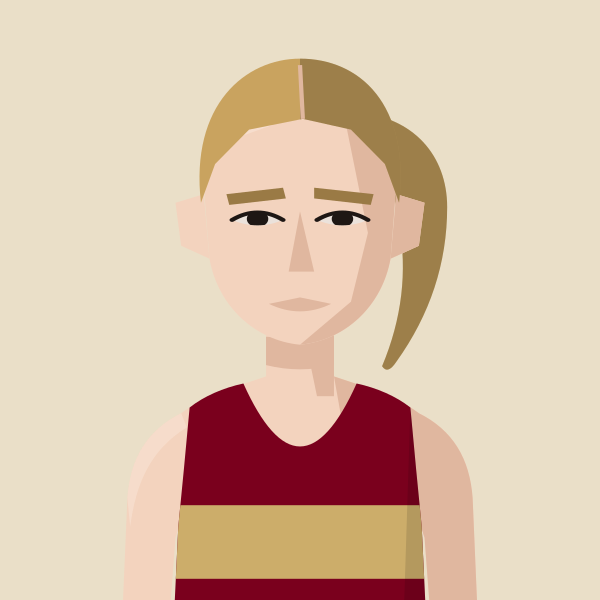
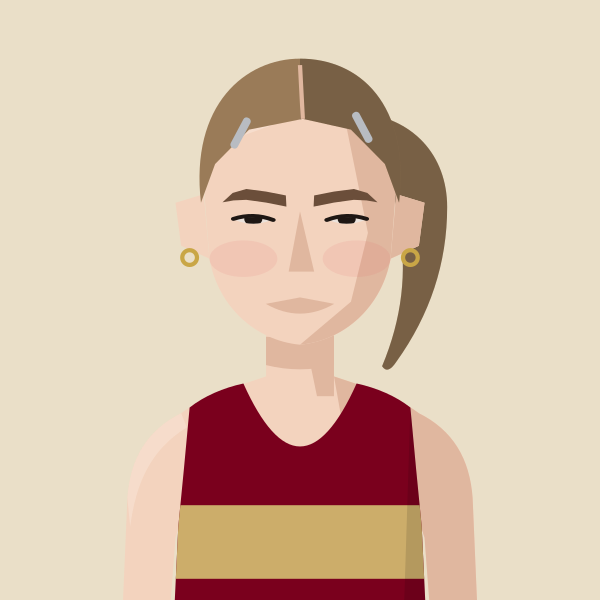
Portrait: Emma Gordon redrawn (tapering brows, hair slides, gold hoops, fuller mouth)
Claude-Session: https://claude.ai/code/session_01MgmDWhFqnSSnP4iBLKXUZC

Changed region(s): [[0.33, 0.09, 0.75, 0.63], [0.3, 0.39, 0.33, 0.45]]

diff --git a/files/index.html b/files/index.html
@@ -783,7 +783,7 @@ const portraitFile=(name,club)=>{const k=normalizeNameForCompare(name||'').repla
 const portraitClubOf=(name,clubs)=>{for(const c of clubs||[]){if(c&&portraitFile(name,c))return c;}return null;}; /* first of these clubs we have a portrait for */
 // Athlete header figure: superstar portrait if we have one, else a grey runner in the club vest, else the plain vest icon
 // Changes whenever any portrait changes (set by tools/build_og.py), so browsers fetch fresh images instead of old cached ones
-const PORTRAIT_V='83af6c35';const PORTRAIT_WOMEN='abbey-brooke,abbie-bulbulian,adele-prince,aimee-hargreaves,aisling-ahern,alex-brown,alex-gandee,alex-marginean,alex-miller,alexa-parker,alexandra-barbour,alice-braham,alice-bridger-morales,alice-crane,alice-martin,alice-reed,alice-smith,alison-purnell,alison-thomson,amelia-pettitt,amy-clements,andrea-barber,anika-schwarze-chintapatla,anna-garnier,anna-garnier-hw,anna-sharp,annabel-hobday,annabelle-hadlow,anne-hegvold,annmarie-seymour,ava-mcandie,becky-briggs,bethan-goddard,bethanie-murray,bethany-brown,betsy-griffiths,billie-mcclosky,camilla-barden,caoimhe-nic-fhogartaigh,carolyne-baxter,catherine-bryson,catherine-eastham,catherine-kandie,cathy-ansell,charlotte-griffiths,chloe-beckett,chloe-tighe,chrissie-wellington,claire-grima,clara-pettit,clare-elms,clare-pauzers,dillan-quinn,dorchie-cockerell,eilidh-hide,elinor-skinner,eliza-grant,elizabeth-apsley,elizabeth-stavreski,ella-fennelly,ella-king-powrie,ella-may-hards,ella-newton,ellen-weir,ellie-brown,ellie-freeden,eloise-bull,emilie-arnoux,emily-barrett,emily-bradley,emily-lowery,emily-robbins,emma-gordon,emma-howsham,emma-lord,emma-rowland,estle-viljoen,evie-warren,felicity-cole,felicity-harrison,felicity-hayward,fi-maddocks,fiona-de-mauny,florence-wiggins,gabby-collison,gabriel-reynolds,gemma-newport,genevieve-blanch,georgia-curry,georgie-bruinvels,georgie-fenn,georgie-furze,georgie-grgec,gina-galbraith,grace-leyland,grace-richardson,hannah-edwards,hannah-english,heather-statham,heather-statham-cc,helena-corbin,helena-keenan,holly-nixon,holly-pan,imogen-mackie,imogen-wolsey,iona-cousland,isabel-bradley,isabel-brinsden,isabelle-pickett,isobel-hodder,jennifer-nandi,jennifer-smith,jess-reed,jess-saunders,jess-winfield,jessica-davies,jessica-lowe,jodie-favell,josephine-rhodes,julia-bleasdale,julia-wedmore,juliet-hodder,jurgita-levertaviciute,justine-lynch,karen-fenner,karen-xiang,karina-box,kate-axford,kate-williams,kathy-sharpe,katie-ellen-french,katie-good,katie-snowden,katy-hedgethorne,kitty-shepherd-cross,kristina-popadich,lara-bromilow,lara-mangan,laura-goodson,laura-miles,lauren-major,lea-adamson,lily-newton,lisa-bailey,lisa-thomas,lisa-thomas-hw,lizzie-goldie-scot,louise-cooper,lucy-jones,lucy-macalister,lucy-peters,lydia-blackmore,lydia-gallyer-barnett,maddie-mastrolonardo,maddy-whitman,maeve-kenny,margaret-coogan,martina-conner,mary-james,mary-setyabule,matilde-lomba,megan-gildea,mel-wilkins,mhairi-hall,mimi-corden-lloyd,molly-oconnor,molly-smith,monika-gajek,naomi-lenane,natalie-beadle,natalie-seymour,natasha-lodge,niamh-thompson,nicky-hayes,nicola-cartlidge,nicola-douglas,nikki-sturzaker,olivia-papaioannou,olivia-stillman,orna-mcginley,pamela-mchutchon,patricia-walker,patrizia-gnoato,penny-oliver,rachel-brown,rebecca-barrow,rebekah-edgar,ruby-carter,ruby-whyte-wilding,ruby-woolfe,sally-urquhart,sam-whiting,samantha-munday,sarah-astin,sarah-dewhirst,sarah-grover,sarah-hanley,sarah-holt,sarah-murphy,sarah-palmer,sarah-palmer-ran,sarah-riceman,sarah-young,saron-haileselase,serena-carter,sophie-cowper,sophie-harris,sophie-hicks,sophie-tooley,stacey-ward,steph-hewitt,steph-mccall,steph-mccall-cc,steph-mccall-slh,steph-mitchell,suzanne-swaine,suze-spalding,suzie-harvey,suzy-whatmough,teresa-murphy,tilly-heaton,tilly-heaton-bel,tish-jones,vic-cartwright,vicky-clarke,victoria-barthelmess,victoria-buck,vikki-filsell,zoe-doyle,zoe-macdonald,zuzana-nemeckova';const PORTRAIT_MEN='aaron-wilson,abdulla-elsadig,adam-leane,adrian-major,adrien-royer,alan-black,alan-mead,alex-brecker,alex-bruce-littlewood,alex-gutteridge,alex-harris,alex-howard,alex-janiaud,alex-lee,alex-lennon,alex-mills,alex-milne,alex-morales,alex-robinson,alex-yee,alexander-marks,amittai-ben-israel,andrew-cumine,andrew-green,andrew-penney,andrew-perfect,andrew-simms,andrew-warburton,andrius-jaksevicius,andy-coley-maud,andy-coley-maud-cc,andy-fyfe,andy-north,andy-paton,andy-weir,angus-butler,angus-lamb,anisse-ismaili,arlo-ludewick,arne-dumez,arthur-peel,ashley-goncalves,barnaby-day,barry-collins,barry-sawyer,ben-clarke,ben-coughlan,ben-harding,ben-hurley,ben-ireland,ben-millar,ben-paviour,ben-pearce,ben-racle,ben-revill,ben-reynolds,ben-scott,ben-toomer,benedict-whitby,benjamin-hilson,bernie-ford,bill-kerr,bill-weller,bill-weller-wal,bob-harrison,bob-holt,bob-lunnon,bob-rayman,bob-smith,bradley-courtney-pinn,brandon-dewar,brian-gorman,brian-wilder,caleb-hathaway,callum-stewart,cameron-dockerill,cameron-reilly,carl-delaney,charles-herrington,charlie-dabbs,charlie-dickinson,charlie-eastaugh,charlie-manning,charlie-pickett,charlie-rogers,charlie-sandison,charlie-walker,charlie-wyllie,che-compton,chris-busaileh,chris-busaileh-hhh,chris-greenwood,chris-keavey,chris-moss,chris-steer,chris-threadgold,chris-warren,christian-lee,christopher-parker,clive-gilby,clive-shippen,colin-high,colin-pearson,conall-mcnally,conall-whelan,craig-ruddy,dame-dibaba,dan-cliffe,dan-pettitt,daniel-shaw,daniel-wolff,dave-beard,dave-beaver,dave-glassborow,dave-holt,dave-taylor,david-anderson,david-bowers,david-grima,david-north,david-ogden,david-symons,david-walsh,david-williams,deron-fagan,dick-piotrowski,dimos-evangelidis,dominic-kiralyfi,don-anderson,don-faircloth,don-maclean,doug-maughan,duncan-rimmer,dylan-evans,dylan-mitchard,ed-brewer,ed-catmur,ed-gibson,ed-mallett,eddie-herridge,eddie-jodrell,eddie-rolls,edward-chuck,eoin-brady,eoin-molloy,ethan-mccolgan,falilou-kebe,findlay-dyer,finn-johnson,fintan-pearce,frank-tickner,frank-ward,fred-paget,fred-slemeck,freddie-hessian,garret-lee,gary-ribbons,gary-ribbons-ee,gary-staines,gavin-eccles,geoff-biscoe,geoff-jerwood,geoff-north,george-cotton,george-gathercole,george-jackson,george-loxton,george-mallett,george-ogden,gerry-adams,gerry-north,glen-keegan,gordon-pearce,graham-macky,harrison-hayman,harry-guttridge,hector-revill,henry-hart,henry-silverstein,hugo-hewitt,huw-lobb,ian-acreman,ian-crowe-wright,ian-ellwood,ian-harkness,indy-barnes,isaac-lutaya,isaac-parker,jack-brotchie,jack-dickson,jack-dormer,jack-hampshire,jack-harrison,jack-hobden,jack-kavanagh,jack-millar,jack-ramm,jack-woods,jacob-brockmann,jake-simmonds,james-bartram,james-blackwood,james-bowler,james-estall,james-ewing,james-fox,james-hancock,james-harvey,james-hoad,james-kelly,james-mcmullan,james-murray,james-nutt,james-preston,james-roberts,james-stockings,james-ward,james-wootton,jamie-crowe,jamie-parkinson,jared-martin,jean-paul-wright,jeff-cunningham,jeremy-dempsey,jermaine-mays,jerry-watson,jim-allchin,jim-rimmer,joe-english,joe-hartley,john-baker,john-bicourt,john-bromley,john-davies,john-dear,john-foss,john-foxall,john-gilbert,john-gladwin,john-hutchins,john-kendall,john-kimaiyo,john-lee,john-lethbridge,john-mather,john-moore,john-roberts,john-sanderson,john-stow,john-sullivan,john-thresher,jon-hobbs,jon-pepper,jon-pepper-slh,jon-phillips,jon-solly,jonathan-cocker,jonathan-collier,jonathan-cornish,jonathan-ratcliffe,jonathan-tipper,jonathon-blackledge,jonny-neville,jonny-scott,jordan-weaver,josh-mitchell,josh-snow,josh-trigwell,jules-gevers,junior-galley,justin-chaston,justin-reid,kassa-tadesse,keith-newton,kevin-nash,kevin-quinn,kevin-sturman,kieran-barnes,kieran-white,knut-hegvold,knut-hegvold-bel,larry-ryan,lawrence-avery,lee-lintern,lewis-lloyd,liam-burthem,lionel-mann,lloyd-kempson,luke-caldwell,mack-downie,malachi-byansi,marcello-bizio,marcelo-fortes,marco-mazzotta,mark-anderson,mark-miles,mark-sinclair,mark-tennyson,mark-waller,martin-dent,martin-lake,martin-lewington,martin-shore,mathew-speed,matt-chaston,matt-jones,matt-wood,matthew-edgar,matthew-houchell,matthew-thomas,matthew-varley,max-bloor,max-heyden,max-milarvie,max-nicholls,michael-baker,michael-mccarthy,mick-woods,mike-beevor,mike-boyle,mike-cummings,mike-farmery,mike-fuller,mike-hayes,mike-kortenray,mike-nouch,mohammed-ismail,monty-hudson,morgan-roberts,nathan-visick,neil-chisholm,neil-phillips,neil-speaight,neil-wilson,nic-lukies,nick-acfield,nick-altmann,nick-bester,nick-bester-hhh,nick-buckle,nick-bundle,nick-goolab,nick-lightfoot,nick-morris,nick-torry,noah-fernandez,norman-stairs,oli-carrington,oliver-carrington,oliver-fox,oliver-reynolds,oliver-young,ollie-foote,ollie-garrod,olly-buck,owen-hind,paddy-roddy,pancho-panchev,paskar-owor,pat-newell,patrick-mcdougall,paul-calver,paul-cheetham,paul-freary,paul-magner,paul-pollock,paul-sanderson,paul-sanderson-wok,pete-carton,pete-gardner,peter-clarke,peter-giles,peter-giles-thh,peter-lighting,phil-carstairs,phil-sanders,phil-sesemann,phil-swinburn,phil-wicks,phil-woodford-smith,raj-paranandi,ralph-street,ranjit-bhatia,ray-foley,reece-edwards,rhys-boorman,rian-mccawley,richard-ashe,richard-giles,richard-henderson,richard-langley,richard-mcdowell,richard-ollington,richard-partridge,richard-sun,richard-ward,rob-armstrong,rob-kelly,rob-tuer,robert-elphick,robert-laing,robert-norville,robert-peacock,robert-sesemann,robin-boon,robin-hudson,roger-alsop,roger-alsop-bel,ron-clark,ron-linstead,ronan-tanguy,rory-mcmahon,rory-orsborn,ross-braden,ross-christie,rowan-board,rowan-crichton,russell-dessaix-chin,ryan-hickey,ryan-mccallister,sam-bramwell,sam-charlton,sam-gebreselassie,sam-haughian,sam-peters,sam-sommerville,sam-tyas,samuel-dames,samuel-wilcock,sean-cordon,sebastian-anthony,simon-baines,simon-coombes,simon-coppard,simon-holmes,simon-rayner,simon-rayner-hw,simon-wade,simon-wade-hhh,simon-waterhouse,simon-williams,simon-wurr,sonny-nicoll,spencer-barden,stephen-mcleod,stephen-sharp,steve-gardner,steve-jones,steve-smythe,steve-smythe-hhh,stuart-beaney,stuart-major,stuart-major-thh,stuart-mccallum,stuart-paton,terry-booth,thomas-dugre,thomas-gandee,thomas-gardner,thomas-renshaw,tim-alexander,tim-eglen,tim-lawrence,tim-watson,toby-cooke,toby-fletcher,tom-austin,tom-cheetham,tom-conlon,tom-davies,tom-gifford,tom-higgs,tom-jervis,tom-lole,tom-south,tom-thornley,tommy-taylor,tony-binda,tony-fairclough,tony-harran,trevor-hart,valdis-pauzers,valentin-rigori,vic-maughan,wayne-oxborough,will-cockerell,will-lewis,will-marshall,will-scott,will-stockley,william-gardner,yacin-yusuf,zach-nolan';
+const PORTRAIT_V='b44b7bbb';const PORTRAIT_WOMEN='abbey-brooke,abbie-bulbulian,adele-prince,aimee-hargreaves,aisling-ahern,alex-brown,alex-gandee,alex-marginean,alex-miller,alexa-parker,alexandra-barbour,alice-braham,alice-bridger-morales,alice-crane,alice-martin,alice-reed,alice-smith,alison-purnell,alison-thomson,amelia-pettitt,amy-clements,andrea-barber,anika-schwarze-chintapatla,anna-garnier,anna-garnier-hw,anna-sharp,annabel-hobday,annabelle-hadlow,anne-hegvold,annmarie-seymour,ava-mcandie,becky-briggs,bethan-goddard,bethanie-murray,bethany-brown,betsy-griffiths,billie-mcclosky,camilla-barden,caoimhe-nic-fhogartaigh,carolyne-baxter,catherine-bryson,catherine-eastham,catherine-kandie,cathy-ansell,charlotte-griffiths,chloe-beckett,chloe-tighe,chrissie-wellington,claire-grima,clara-pettit,clare-elms,clare-pauzers,dillan-quinn,dorchie-cockerell,eilidh-hide,elinor-skinner,eliza-grant,elizabeth-apsley,elizabeth-stavreski,ella-fennelly,ella-king-powrie,ella-may-hards,ella-newton,ellen-weir,ellie-brown,ellie-freeden,eloise-bull,emilie-arnoux,emily-barrett,emily-bradley,emily-lowery,emily-robbins,emma-gordon,emma-howsham,emma-lord,emma-rowland,estle-viljoen,evie-warren,felicity-cole,felicity-harrison,felicity-hayward,fi-maddocks,fiona-de-mauny,florence-wiggins,gabby-collison,gabriel-reynolds,gemma-newport,genevieve-blanch,georgia-curry,georgie-bruinvels,georgie-fenn,georgie-furze,georgie-grgec,gina-galbraith,grace-leyland,grace-richardson,hannah-edwards,hannah-english,heather-statham,heather-statham-cc,helena-corbin,helena-keenan,holly-nixon,holly-pan,imogen-mackie,imogen-wolsey,iona-cousland,isabel-bradley,isabel-brinsden,isabelle-pickett,isobel-hodder,jennifer-nandi,jennifer-smith,jess-reed,jess-saunders,jess-winfield,jessica-davies,jessica-lowe,jodie-favell,josephine-rhodes,julia-bleasdale,julia-wedmore,juliet-hodder,jurgita-levertaviciute,justine-lynch,karen-fenner,karen-xiang,karina-box,kate-axford,kate-williams,kathy-sharpe,katie-ellen-french,katie-good,katie-snowden,katy-hedgethorne,kitty-shepherd-cross,kristina-popadich,lara-bromilow,lara-mangan,laura-goodson,laura-miles,lauren-major,lea-adamson,lily-newton,lisa-bailey,lisa-thomas,lisa-thomas-hw,lizzie-goldie-scot,louise-cooper,lucy-jones,lucy-macalister,lucy-peters,lydia-blackmore,lydia-gallyer-barnett,maddie-mastrolonardo,maddy-whitman,maeve-kenny,margaret-coogan,martina-conner,mary-james,mary-setyabule,matilde-lomba,megan-gildea,mel-wilkins,mhairi-hall,mimi-corden-lloyd,molly-oconnor,molly-smith,monika-gajek,naomi-lenane,natalie-beadle,natalie-seymour,natasha-lodge,niamh-thompson,nicky-hayes,nicola-cartlidge,nicola-douglas,nikki-sturzaker,olivia-papaioannou,olivia-stillman,orna-mcginley,pamela-mchutchon,patricia-walker,patrizia-gnoato,penny-oliver,rachel-brown,rebecca-barrow,rebekah-edgar,ruby-carter,ruby-whyte-wilding,ruby-woolfe,sally-urquhart,sam-whiting,samantha-munday,sarah-astin,sarah-dewhirst,sarah-grover,sarah-hanley,sarah-holt,sarah-murphy,sarah-palmer,sarah-palmer-ran,sarah-riceman,sarah-young,saron-haileselase,serena-carter,sophie-cowper,sophie-harris,sophie-hicks,sophie-tooley,stacey-ward,steph-hewitt,steph-mccall,steph-mccall-cc,steph-mccall-slh,steph-mitchell,suzanne-swaine,suze-spalding,suzie-harvey,suzy-whatmough,teresa-murphy,tilly-heaton,tilly-heaton-bel,tish-jones,vic-cartwright,vicky-clarke,victoria-barthelmess,victoria-buck,vikki-filsell,zoe-doyle,zoe-macdonald,zuzana-nemeckova';const PORTRAIT_MEN='aaron-wilson,abdulla-elsadig,adam-leane,adrian-major,adrien-royer,alan-black,alan-mead,alex-brecker,alex-bruce-littlewood,alex-gutteridge,alex-harris,alex-howard,alex-janiaud,alex-lee,alex-lennon,alex-mills,alex-milne,alex-morales,alex-robinson,alex-yee,alexander-marks,amittai-ben-israel,andrew-cumine,andrew-green,andrew-penney,andrew-perfect,andrew-simms,andrew-warburton,andrius-jaksevicius,andy-coley-maud,andy-coley-maud-cc,andy-fyfe,andy-north,andy-paton,andy-weir,angus-butler,angus-lamb,anisse-ismaili,arlo-ludewick,arne-dumez,arthur-peel,ashley-goncalves,barnaby-day,barry-collins,barry-sawyer,ben-clarke,ben-coughlan,ben-harding,ben-hurley,ben-ireland,ben-millar,ben-paviour,ben-pearce,ben-racle,ben-revill,ben-reynolds,ben-scott,ben-toomer,benedict-whitby,benjamin-hilson,bernie-ford,bill-kerr,bill-weller,bill-weller-wal,bob-harrison,bob-holt,bob-lunnon,bob-rayman,bob-smith,bradley-courtney-pinn,brandon-dewar,brian-gorman,brian-wilder,caleb-hathaway,callum-stewart,cameron-dockerill,cameron-reilly,carl-delaney,charles-herrington,charlie-dabbs,charlie-dickinson,charlie-eastaugh,charlie-manning,charlie-pickett,charlie-rogers,charlie-sandison,charlie-walker,charlie-wyllie,che-compton,chris-busaileh,chris-busaileh-hhh,chris-greenwood,chris-keavey,chris-moss,chris-steer,chris-threadgold,chris-warren,christian-lee,christopher-parker,clive-gilby,clive-shippen,colin-high,colin-pearson,conall-mcnally,conall-whelan,craig-ruddy,dame-dibaba,dan-cliffe,dan-pettitt,daniel-shaw,daniel-wolff,dave-beard,dave-beaver,dave-glassborow,dave-holt,dave-taylor,david-anderson,david-bowers,david-grima,david-north,david-ogden,david-symons,david-walsh,david-williams,deron-fagan,dick-piotrowski,dimos-evangelidis,dominic-kiralyfi,don-anderson,don-faircloth,don-maclean,doug-maughan,duncan-rimmer,dylan-evans,dylan-mitchard,ed-brewer,ed-catmur,ed-gibson,ed-mallett,eddie-herridge,eddie-jodrell,eddie-rolls,edward-chuck,eoin-brady,eoin-molloy,ethan-mccolgan,falilou-kebe,findlay-dyer,finn-johnson,fintan-pearce,frank-tickner,frank-ward,fred-paget,fred-slemeck,freddie-hessian,garret-lee,gary-ribbons,gary-ribbons-ee,gary-staines,gavin-eccles,geoff-biscoe,geoff-jerwood,geoff-north,george-cotton,george-gathercole,george-jackson,george-loxton,george-mallett,george-ogden,gerry-adams,gerry-north,glen-keegan,gordon-pearce,graham-macky,harrison-hayman,harry-guttridge,hector-revill,henry-hart,henry-silverstein,hugo-hewitt,huw-lobb,ian-acreman,ian-crowe-wright,ian-ellwood,ian-harkness,indy-barnes,isaac-lutaya,isaac-parker,jack-brotchie,jack-dickson,jack-dormer,jack-hampshire,jack-harrison,jack-hobden,jack-kavanagh,jack-millar,jack-ramm,jack-woods,jacob-brockmann,jake-simmonds,james-bartram,james-blackwood,james-bowler,james-estall,james-ewing,james-fox,james-hancock,james-harvey,james-hoad,james-kelly,james-mcmullan,james-murray,james-nutt,james-preston,james-roberts,james-stockings,james-ward,james-wootton,jamie-crowe,jamie-parkinson,jared-martin,jean-paul-wright,jeff-cunningham,jeremy-dempsey,jermaine-mays,jerry-watson,jim-allchin,jim-rimmer,joe-english,joe-hartley,john-baker,john-bicourt,john-bromley,john-davies,john-dear,john-foss,john-foxall,john-gilbert,john-gladwin,john-hutchins,john-kendall,john-kimaiyo,john-lee,john-lethbridge,john-mather,john-moore,john-roberts,john-sanderson,john-stow,john-sullivan,john-thresher,jon-hobbs,jon-pepper,jon-pepper-slh,jon-phillips,jon-solly,jonathan-cocker,jonathan-collier,jonathan-cornish,jonathan-ratcliffe,jonathan-tipper,jonathon-blackledge,jonny-neville,jonny-scott,jordan-weaver,josh-mitchell,josh-snow,josh-trigwell,jules-gevers,junior-galley,justin-chaston,justin-reid,kassa-tadesse,keith-newton,kevin-nash,kevin-quinn,kevin-sturman,kieran-barnes,kieran-white,knut-hegvold,knut-hegvold-bel,larry-ryan,lawrence-avery,lee-lintern,lewis-lloyd,liam-burthem,lionel-mann,lloyd-kempson,luke-caldwell,mack-downie,malachi-byansi,marcello-bizio,marcelo-fortes,marco-mazzotta,mark-anderson,mark-miles,mark-sinclair,mark-tennyson,mark-waller,martin-dent,martin-lake,martin-lewington,martin-shore,mathew-speed,matt-chaston,matt-jones,matt-wood,matthew-edgar,matthew-houchell,matthew-thomas,matthew-varley,max-bloor,max-heyden,max-milarvie,max-nicholls,michael-baker,michael-mccarthy,mick-woods,mike-beevor,mike-boyle,mike-cummings,mike-farmery,mike-fuller,mike-hayes,mike-kortenray,mike-nouch,mohammed-ismail,monty-hudson,morgan-roberts,nathan-visick,neil-chisholm,neil-phillips,neil-speaight,neil-wilson,nic-lukies,nick-acfield,nick-altmann,nick-bester,nick-bester-hhh,nick-buckle,nick-bundle,nick-goolab,nick-lightfoot,nick-morris,nick-torry,noah-fernandez,norman-stairs,oli-carrington,oliver-carrington,oliver-fox,oliver-reynolds,oliver-young,ollie-foote,ollie-garrod,olly-buck,owen-hind,paddy-roddy,pancho-panchev,paskar-owor,pat-newell,patrick-mcdougall,paul-calver,paul-cheetham,paul-freary,paul-magner,paul-pollock,paul-sanderson,paul-sanderson-wok,pete-carton,pete-gardner,peter-clarke,peter-giles,peter-giles-thh,peter-lighting,phil-carstairs,phil-sanders,phil-sesemann,phil-swinburn,phil-wicks,phil-woodford-smith,raj-paranandi,ralph-street,ranjit-bhatia,ray-foley,reece-edwards,rhys-boorman,rian-mccawley,richard-ashe,richard-giles,richard-henderson,richard-langley,richard-mcdowell,richard-ollington,richard-partridge,richard-sun,richard-ward,rob-armstrong,rob-kelly,rob-tuer,robert-elphick,robert-laing,robert-norville,robert-peacock,robert-sesemann,robin-boon,robin-hudson,roger-alsop,roger-alsop-bel,ron-clark,ron-linstead,ronan-tanguy,rory-mcmahon,rory-orsborn,ross-braden,ross-christie,rowan-board,rowan-crichton,russell-dessaix-chin,ryan-hickey,ryan-mccallister,sam-bramwell,sam-charlton,sam-gebreselassie,sam-haughian,sam-peters,sam-sommerville,sam-tyas,samuel-dames,samuel-wilcock,sean-cordon,sebastian-anthony,simon-baines,simon-coombes,simon-coppard,simon-holmes,simon-rayner,simon-rayner-hw,simon-wade,simon-wade-hhh,simon-waterhouse,simon-williams,simon-wurr,sonny-nicoll,spencer-barden,stephen-mcleod,stephen-sharp,steve-gardner,steve-jones,steve-smythe,steve-smythe-hhh,stuart-beaney,stuart-major,stuart-major-thh,stuart-mccallum,stuart-paton,terry-booth,thomas-dugre,thomas-gandee,thomas-gardner,thomas-renshaw,tim-alexander,tim-eglen,tim-lawrence,tim-watson,toby-cooke,toby-fletcher,tom-austin,tom-cheetham,tom-conlon,tom-davies,tom-gifford,tom-higgs,tom-jervis,tom-lole,tom-south,tom-thornley,tommy-taylor,tony-binda,tony-fairclough,tony-harran,trevor-hart,valdis-pauzers,valentin-rigori,vic-maughan,wayne-oxborough,will-cockerell,will-lewis,will-marshall,will-scott,will-stockley,william-gardner,yacin-yusuf,zach-nolan';
 // Runners whose dog pops up on their own profile page (a -dog.svg version of their portrait)
 const PROFILE_DOGS=new Set(['john-sanderson','penny-oliver','james-hancock','angus-butler']);
 const AthletePortrait=({name,club,w,fill,onClick,blink})=>{const[failed,setFailed]=useState(false);const file=portraitFile(name,club);const src0=file?`/portraits/athletes/${file}.svg?v=${PORTRAIT_V}`:PORTRAIT_CLUBS.has(club)?`/portraits/clubs/${club.replace(/\//g,'').replace(/&/g,'and')}.svg?v=${PORTRAIT_V}`:null;const blinkSrc=useBlinkSrc(file?(PROFILE_DOGS.has(file)?`/portraits/athletes/${file}-dog.svg?v=${PORTRAIT_V}`:src0):null,!!blink);const src=blinkSrc||src0;if(!src||failed)return<div onClick={onClick} className={onClick?'cursor-pointer':''}><ClubShield club={club} size={w}/></div>;const h=Math.round(w*148/126),ih=Math.round(w*1.4);if(fill)return<div onClick={onClick} className="cursor-pointer" style={{alignSelf:'stretch',minHeight:h,aspectRatio:'126 / 148',flexShrink:0,position:'relative',borderRadius:4,overflow:'hidden'}}><img src={src} alt={file?`Portrait of ${name.replace(/\s*\([^)]*\)$/,'')}`:`Runner in ${CLUBS[club]?.name||club} vest`} style={{position:'absolute',top:0,left:0,display:'block',width:'100%',height:'auto'}} onError={()=>setFailed(true)}/></div>;return<div style={{width:w,height:h,borderRadius:4,overflow:'hidden',flexShrink:0}}><img src={src} alt={file?`Portrait of ${name.replace(/\s*\([^)]*\)$/,'')}`:`Runner in ${CLUBS[club]?.name||club} vest`} width={w} height={ih} style={{display:'block',width:w,height:ih}} onError={()=>setFailed(true)}/></div>;};

diff --git a/tools/gen_portraits.py b/tools/gen_portraits.py
@@ -1748,4 +1748,28 @@ save("eoin-molloy", hoop(cheekdimples(widesmile(brows(eyes(figure("BEL", skin=1,
 # Tom Higgs (SLH), Oct 2026: short tufty strawberry-blond hair receding at the corners, trimmed ginger beard on a long face,
 # light ginger brows, small pale eyes, thin dark rectangular glasses, flushed
 save("tom-higgs", brows(eyes(figure("SLH", skin=1, hair="tuftrecede", hair_colour="#C99A62", brow_colour="#B48552", facial="shortbeard", facial_colour="#B8733E", glasses=True, glasses_col="#2E3136", jaw="narrow", rosy=True), "small"), 0, 0, 2).replace('r="3.8"', 'r="3.2"'))
+# ---- Hair slides, tapering brows and an abstract mouth-size control (Oct 2026, first used for Emma Gordon) ----
+import re as _rq
+def hairclips(svg, col="#B8BCC2"):
+    """Two small metal hair slides, one each side of the parting."""
+    return svg.replace('</svg>', f'<g fill="{col}" transform="translate(0,-40)"><rect x="-1.4" y="-6" width="2.8" height="12" rx="1.2" transform="translate(79,107) rotate(28)"/><rect x="-1.4" y="-6" width="2.8" height="12" rx="1.2" transform="translate(122,105) rotate(-28)"/></g></svg>', 1)
+def taperbrows(svg, rise=1.6):
+    """Brows with thick inner heads that rise gently outwards, then taper to a thin tail that dips slightly (keeps the brow height)."""
+    m = _rq.search(r'<g fill="(#[0-9A-Fa-f]{3,6})"><polygon points="[0-9.]+,[0-9.]+ [0-9.]+,([0-9.]+) [^"]+"/><polygon points="[^"]+"/></g>', svg)
+    if not m: return svg
+    dy = float(m.group(2)) - 100
+    L = [(95,99.6),(88,98.6-rise*.5),(81,98.2-rise),(76.2,99.4-rise*.6),(72.6,102.8),(76.5,102.4-rise*.3),(81,102.6-rise*.6),(88,103.4-rise*.3),(95.2,104.8)]
+    f = lambda pts: " ".join(f"{x:g},{y+dy:g}" for x, y in pts)
+    return svg[:m.start()] + f'<g fill="{m.group(1)}"><polygon points="{f(L)}"/><polygon points="{f([(200-x, y) for x, y in L])}"/></g>' + svg[m.end():]
+def mouth(svg, width=1.0, full=1.0):
+    """House-style mouth (one flat shape, skin-toned), resized only: width scales it sideways, full deepens the lower lip."""
+    m = _rq.search(r'<path d="M89,151 L100,148 L111,151 Q100,158 89,151 Z" fill="([^"]*)"/>', svg)
+    if not m: return svg
+    x0, x1 = 100 - 11 * width, 100 + 11 * width
+    d = f"M{x0:g},151 L100,148 L{x1:g},151 Q100,{151 + 7 * full:g} {x0:g},151 Z"
+    return svg[:m.start()] + f'<path d="{d}" fill="{m.group(1)}"/>' + svg[m.end():]
+# Emma Gordon (BEL), redrawn Oct 2026: soft rounded jaw, small eyes set a little wide, mid-brown brows sitting low with thick heads
+# tapering to the temples, dark-blonde hair sleeked back from a centre parting with silver slides into a ponytail, small gold hoops,
+# a slightly wider, fuller mouth, flushed
+save("emma-gordon", mouth(taperbrows(hairclips(earrings(brows(eyes(figure("BEL", skin=1, hair="ponytail", hair_colour="#9A7B58", brow_colour="#6B4E3A", rosy=True), "small", 1.5), 0, 1.5, 4).replace('r="3.8"', 'r="3.2"')))), 1.1, 1.3))
 export_site()
